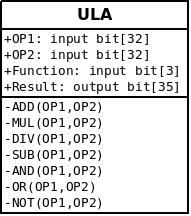
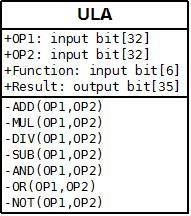
Correções no documento de arquitetura: Diagrama da ULA, Instruções de LW/SW, saida da pilha

diff --git a/doc/architecture/pictures/diagrams/ula.tex b/doc/architecture/pictures/diagrams/ula.tex
@@ -1,0 +1,89 @@
+% Graphic for TeX using PGF
+% Title: C:\Users\VICTOR\Documents\GitHub\t02-core-musa\doc\architecture\pictures\diagrams\ula.dia
+% Creator: Dia v0.97.2
+% CreationDate: Wed Dec 10 23:48:11 2014
+% For: VICTOR
+% \usepackage{tikz}
+% The following commands are not supported in PSTricks at present
+% We define them conditionally, so when they are implemented,
+% this pgf file will use them.
+\ifx\du\undefined
+  \newlength{\du}
+\fi
+\setlength{\du}{15\unitlength}
+\begin{tikzpicture}
+\pgftransformxscale{1.000000}
+\pgftransformyscale{-1.000000}
+\definecolor{dialinecolor}{rgb}{0.000000, 0.000000, 0.000000}
+\pgfsetstrokecolor{dialinecolor}
+\definecolor{dialinecolor}{rgb}{1.000000, 1.000000, 1.000000}
+\pgfsetfillcolor{dialinecolor}
+\pgfsetlinewidth{0.100000\du}
+\pgfsetdash{}{0pt}
+\definecolor{dialinecolor}{rgb}{1.000000, 1.000000, 1.000000}
+\pgfsetfillcolor{dialinecolor}
+\fill (-9.998130\du,-11.940600\du)--(-9.998130\du,-10.540600\du)--(-0.643130\du,-10.540600\du)--(-0.643130\du,-11.940600\du)--cycle;
+\definecolor{dialinecolor}{rgb}{0.000000, 0.000000, 0.000000}
+\pgfsetstrokecolor{dialinecolor}
+\draw (-9.998130\du,-11.940600\du)--(-9.998130\du,-10.540600\du)--(-0.643130\du,-10.540600\du)--(-0.643130\du,-11.940600\du)--cycle;
+% setfont left to latex
+\definecolor{dialinecolor}{rgb}{0.000000, 0.000000, 0.000000}
+\pgfsetstrokecolor{dialinecolor}
+\node at (-5.320630\du,-10.990600\du){ULA};
+\definecolor{dialinecolor}{rgb}{1.000000, 1.000000, 1.000000}
+\pgfsetfillcolor{dialinecolor}
+\fill (-9.998130\du,-10.540600\du)--(-9.998130\du,-7.140600\du)--(-0.643130\du,-7.140600\du)--(-0.643130\du,-10.540600\du)--cycle;
+\definecolor{dialinecolor}{rgb}{0.000000, 0.000000, 0.000000}
+\pgfsetstrokecolor{dialinecolor}
+\draw (-9.998130\du,-10.540600\du)--(-9.998130\du,-7.140600\du)--(-0.643130\du,-7.140600\du)--(-0.643130\du,-10.540600\du)--cycle;
+% setfont left to latex
+\definecolor{dialinecolor}{rgb}{0.000000, 0.000000, 0.000000}
+\pgfsetstrokecolor{dialinecolor}
+\node[anchor=west] at (-9.848130\du,-9.840600\du){+OP1: input bit\ensuremath{[}32\ensuremath{]}};
+% setfont left to latex
+\definecolor{dialinecolor}{rgb}{0.000000, 0.000000, 0.000000}
+\pgfsetstrokecolor{dialinecolor}
+\node[anchor=west] at (-9.848130\du,-9.040600\du){+OP2: input bit\ensuremath{[}32\ensuremath{]}};
+% setfont left to latex
+\definecolor{dialinecolor}{rgb}{0.000000, 0.000000, 0.000000}
+\pgfsetstrokecolor{dialinecolor}
+\node[anchor=west] at (-9.848130\du,-8.240600\du){+Function: input bit\ensuremath{[}6\ensuremath{]}};
+% setfont left to latex
+\definecolor{dialinecolor}{rgb}{0.000000, 0.000000, 0.000000}
+\pgfsetstrokecolor{dialinecolor}
+\node[anchor=west] at (-9.848130\du,-7.440600\du){+Result: output bit\ensuremath{[}35\ensuremath{]}};
+\definecolor{dialinecolor}{rgb}{1.000000, 1.000000, 1.000000}
+\pgfsetfillcolor{dialinecolor}
+\fill (-9.998130\du,-7.140600\du)--(-9.998130\du,-1.340600\du)--(-0.643130\du,-1.340600\du)--(-0.643130\du,-7.140600\du)--cycle;
+\definecolor{dialinecolor}{rgb}{0.000000, 0.000000, 0.000000}
+\pgfsetstrokecolor{dialinecolor}
+\draw (-9.998130\du,-7.140600\du)--(-9.998130\du,-1.340600\du)--(-0.643130\du,-1.340600\du)--(-0.643130\du,-7.140600\du)--cycle;
+% setfont left to latex
+\definecolor{dialinecolor}{rgb}{0.000000, 0.000000, 0.000000}
+\pgfsetstrokecolor{dialinecolor}
+\node[anchor=west] at (-9.848130\du,-6.440600\du){-ADD(OP1,OP2)};
+% setfont left to latex
+\definecolor{dialinecolor}{rgb}{0.000000, 0.000000, 0.000000}
+\pgfsetstrokecolor{dialinecolor}
+\node[anchor=west] at (-9.848130\du,-5.640600\du){-MUL(OP1,OP2)};
+% setfont left to latex
+\definecolor{dialinecolor}{rgb}{0.000000, 0.000000, 0.000000}
+\pgfsetstrokecolor{dialinecolor}
+\node[anchor=west] at (-9.848130\du,-4.840600\du){-DIV(OP1,OP2)};
+% setfont left to latex
+\definecolor{dialinecolor}{rgb}{0.000000, 0.000000, 0.000000}
+\pgfsetstrokecolor{dialinecolor}
+\node[anchor=west] at (-9.848130\du,-4.040600\du){-SUB(OP1,OP2)};
+% setfont left to latex
+\definecolor{dialinecolor}{rgb}{0.000000, 0.000000, 0.000000}
+\pgfsetstrokecolor{dialinecolor}
+\node[anchor=west] at (-9.848130\du,-3.240600\du){-AND(OP1,OP2)};
+% setfont left to latex
+\definecolor{dialinecolor}{rgb}{0.000000, 0.000000, 0.000000}
+\pgfsetstrokecolor{dialinecolor}
+\node[anchor=west] at (-9.848130\du,-2.440600\du){-OR(OP1,OP2)};
+% setfont left to latex
+\definecolor{dialinecolor}{rgb}{0.000000, 0.000000, 0.000000}
+\pgfsetstrokecolor{dialinecolor}
+\node[anchor=west] at (-9.848130\du,-1.640600\du){-NOT(OP1,OP2)};
+\end{tikzpicture}

diff --git a/doc/architecture/pt_br_architecture.tex b/doc/architecture/pt_br_architecture.tex
@@ -145,7 +145,7 @@ Este documento é dividido através das seguintes seções:\\
   \end{itemize}
   
   \section{Intruções}
-  A unidade de processamento possui 21 instruções essenciais para o processamento das operações. Elas são desmembradas em quatro formatos: R-type, I-type, Load/Store e Jump.
+  A unidade de processamento possui 21 instruções essenciais para o processamento das operações. Elas são desmembradas em três formatos: R-type, I-type, e Jump.
   
   \begin{itemize}
     \item \textbf{R-type --} Operações lógicas e aritméticas.
@@ -181,22 +181,10 @@ Este documento é dividido através das seguintes seções:\\
   	SUBi & Subtração de dois valores, sendo um destes imediato. & 001001 & - \\ \hline
   	ANDi & Operação lógica AND entre dois valores, sendo um destes imediato. & 001100 & - \\ \hline
   	ORi & Operação lógica OR entre dois valores, sendo um destes imediato. & 001101 & - \\ \hline
+    LW & Operação de leitura na memória de dados. & 100011 & - \\ \hline
+    SW & Operação de armazenamento na memória de dados. & 101011 & - \\ \hline
   	\end{tabular} 
   	\caption{Instruções do tipo I.}
-  \end{table}
-
-    \item \textbf{Load/Store --} Operações de carregamento e armazenamento (Intruções de tipo I).
-
-	\begin{table}[H]
-	\centering
-	\begin{tabular}{|c|m{6cm}|c|c|}
-  	\hline 
-  	\textbf{INSTRUÇÃO} & \textbf{DESCRIÇÃO} & \textbf{OPCODE} & \textbf{FUNCTION} \\ 
-  	\hline 
-  	LW & Operação de leitura na memória de dados. & 100011 & - \\ \hline
-  	SW & Operação de armazenamento na memória de dados. & 101011 & - \\ \hline
-  	\end{tabular} 
-  	\caption{Instruções de Load/Store.}
   \end{table}
     
     \item \textbf{Jump --} Operações de desvio e branch.
@@ -326,7 +314,7 @@ Este documento é dividido através das seguintes seções:\\
           \endlastfoot
           OP1             & 32   & entrada   & Primeiro operando.    \\ \hline
           OP2             & 32   & entrada   & Segundo operando.    \\ \hline
-          Function             & 3   & entrada   & Identificador da operação.    \\ \hline
+          Function             & 6   & entrada   & Identificador da operação.    \\ \hline
           Result             & 35   & saída   & Resultado da operação com as \textit{flags}.    \\
         \end{longtable}
       \end{center}  
@@ -407,7 +395,7 @@ Este documento é dividido através das seguintes seções:\\
           entradaDeDados             & 18   & entrada   & Endereço do PC que será armazenado.    \\ \hline
           popRequest             & 1   & entrada   & Sinal para tirar o ultimo endereço armmazenado da pilha.    \\ \hline
           pushRequest             & 1   & entrada   & Sinal para salvar o endereço do PC da pilha.    \\ \hline
-          saidaDeDados             & 32   & saída   & Ultimo endereço salvo na pilha para retorno do PC.    \\ \hline
+          saidaDeDados             & 18   & saída   & Ultimo endereço salvo na pilha para retorno do PC.    \\ \hline
         \end{longtable}
       \end{center}  
 
